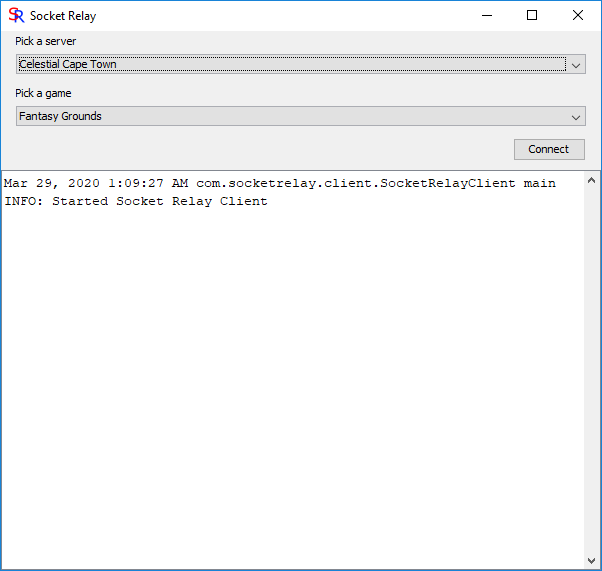
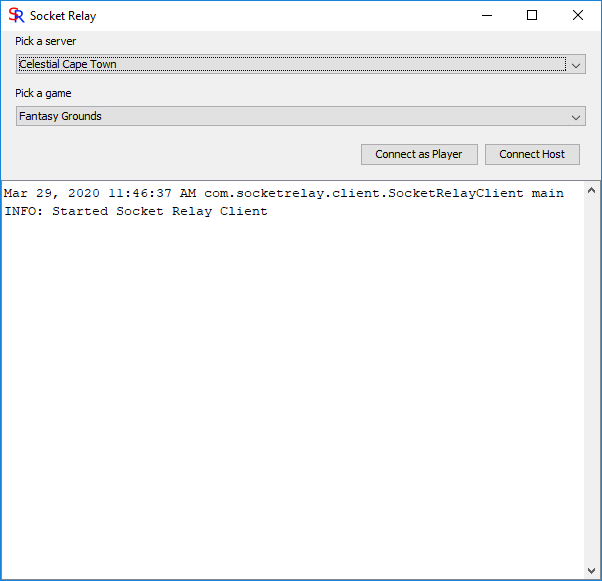
Finished the FG quick start guide.

Changed region(s): [[0.0, 0.0, 1.0, 0.387]]

diff --git a/docs/fantasygrounds.md b/docs/fantasygrounds.md
@@ -12,6 +12,21 @@ Start up the Socket Relay Client pick a server and the game. Click connect as ho
 
 > You will need to send your players the port number and tell them which server you connected to.
 
+Start your Fantasy Grounds and host a game as you would always.
+
 ## Client Setup
 
-Start the Socket Relay Client. Click the 
+Start the Socket Relay Client. Click the 'Connect as Player' button.
+
+You should see
+
+![client](/images/fc_port.png)
+
+Enter the port number from your hoist player and click ok.
+
+Now start up fantasy grounds and say join game.
+
+![client](/images/fc_join.jpg)
+
+> You must say localhost for the address as FC will be connecting your instance of Socket Relay.
+
